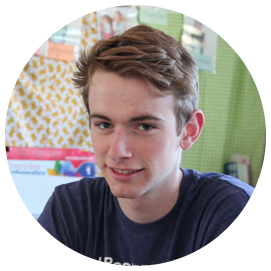
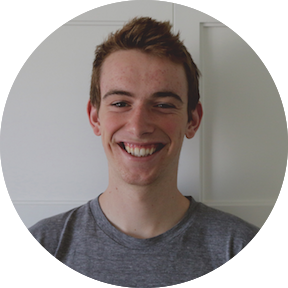
Updated projects, headshot, descriptions

diff --git a/index.html b/index.html
@@ -39,7 +39,7 @@
             <div class="about_column">
                <h2>Hello <i class="material-icons">mood</i></h2>
                <p>
-                  I am a programmer with an interest in film and design.
+                  I am a programmer with an interest in film, design and organization.
                </p>
                <span title="Home">
                <p class="p_space">
@@ -83,7 +83,6 @@
                         <li>Computer Organization and Architecture</li>
                         <li>Software Design</li>
                         <li>Digital Electronics</li>
-                        <li>Machine Learning (University of Edinburgh)</li>
                      </ul>
                   </div>
                </p>
@@ -131,12 +130,39 @@
 
          <div class="project_window center_h">
             <div class="project_title">
-               Current Project - When Did I Last <br />
+               Captain's Log
+               <!-- <br /><a href="https://github.com/macallan-brown/WhenDidILast" target="_blank">Github Repository</a> -->
+               <br /> language(s): Swift
+            </div>
+            <div class="text_left">
+               While traveling across the United Kingdom in the summer of 2016, I kept an extremely detailed
+               journal with every place, meal, and conversation that I experienced. I wanted to
+               remember the places I went, but more importantly I wanted to tell my stories.
+               <br />
+               <br />
+               Captain's Log is a tool to facilitate me in my quest to become a better storyteller. It serves as
+               a reminder of the moments in my life, not the stories themselves. The goal is to quickly
+               capture important details from moments so that the stories themselves are not lost in the
+               abyss of my memory.
+               <br  />
+               <br  />
+               Screenshot of home page initial design:
+            </div>
+            <img class="screenshot" src="images/CLImage1.1.png" alt="Initial Design for Captain's Log Home Screen">
+         </div>
+
+         <div class="project_window center_h">
+            <div class="project_title">
+               When Did I Last <br />
                <a href="https://github.com/macallan-brown/WhenDidILast" target="_blank">Github Repository</a>
                <br /> language(s): Objective-C
             </div>
-            As a college student, I find it difficult to find time for the things I enjoy doing.
-            Working on an app to keep track of how recently events have occurred.
+            <div class="text_left">
+               As a college student, I find it difficult to find time for the things I enjoy doing.
+               Working on an app to keep track of how recently events have occurred. This application
+               was mostly created as a practice for learning Objective-C. However, this project might
+               be considered the initial prototype of Captain's Log.
+            </div>
          </div>
 
          <div class="project_window center_h">
@@ -145,7 +171,9 @@
                <a href="http://www.thredup.com" target="_blank">www.thredup.com</a>
                <br /> language(s): Objective-C
             </div>
-            Currently helping develop the iOS App for the online consignment store thredUP.
+            <div class="text_left">
+               Helped develop the iOS App for the online consignment store thredUP during the Summer of 2016.
+            </div>
          </div>
 
          <div class="project_window center_h">
@@ -154,7 +182,9 @@
                <a href="https://github.com/macallan-brown/6K-Music" target="_blank">Github Repository</a>
                <br /> language(s): HTML, Python, CSS, SQL
             </div>
-            A project for my Software Design class that allowed the user to query the top 6,000 critically acclaimed songs of all time.
+            <div class="text_left">
+               A project for my Software Design class that allowed the user to query the top 6,000 critically acclaimed songs of all time.
+            </div>
          </div>
 
          <div class="project_window center_h">
@@ -162,7 +192,9 @@
                Hotnotes
                <br /> language(s): Java
             </div>
-            Our final project for Software Design is a note taking application that allowed users to quickly create interactive notes for studying.
+            <div class="text_left">
+               Our final project for Software Design is a note taking application that allowed users to quickly create interactive HTML notes for studying.
+            </div>
          </div>
 
          <div class="project_window center_h">
@@ -171,7 +203,9 @@
                <a href="http://www.thredup.com" target="_blank">www.thredup.com</a>
                <br /> language(s): Java
             </div>
-            Worked as an engineer for the thredUP Android App during the Summer of 2015.
+            <div class="text_left">
+               Worked as an engineer for the thredUP Android App during the Summer of 2015.
+            </div>
          </div>
       </div>
 

diff --git a/stylesheet.css b/stylesheet.css
@@ -109,6 +109,7 @@ div a:hover{
    display:block;
    text-align: center;
    visibility: hidden;
+   
 }
 .about_column{
    display:inline-block;
@@ -157,9 +158,10 @@ p{
 }
 
 .project_window{
-   width: 300px;
+   width: 450px;
    padding: 50 15 50 15;
-   border-bottom: 2px solid white;
+   border: 2px solid white;
+   margin-bottom: 15px;
 }
 
 .project_title{
@@ -169,4 +171,8 @@ p{
    padding-bottom: 10px;
    font-size: 18px;
    border-bottom: thin dashed white;
+}
+
+.screenshot{
+   margin-top: 15px;
 }
